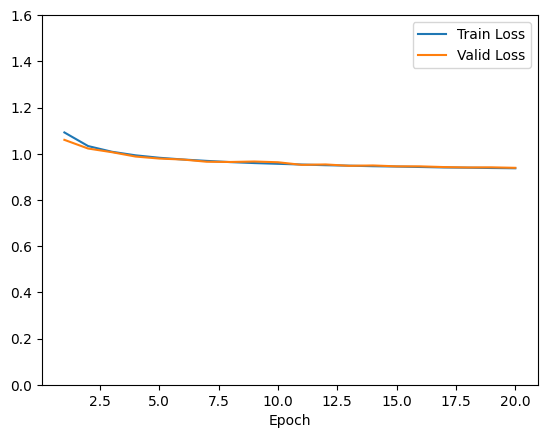
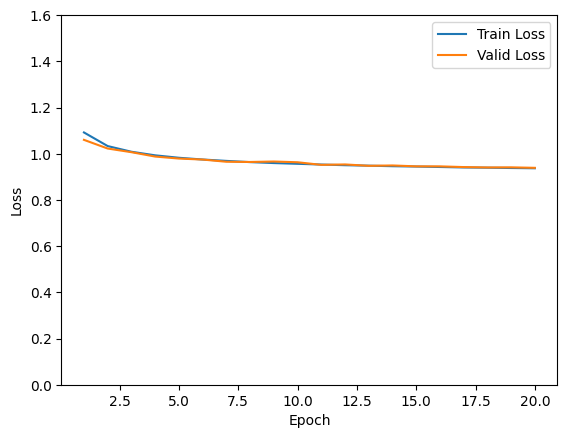
fix: Q2_1 plots

diff --git a/hw1/hw1-q2.py b/hw1/hw1-q2.py
@@ -144,7 +144,7 @@ def evaluate(model, X, y, criterion):
     return loss, n_correct / n_possible
 
 
-def plot(epochs, plottables, name='', ylim=None):
+def plot(epochs, plottables, name='', y_label = '', ylim=None):
     """Plot the plottables over the epochs.
     
     Plottables is a dictionary mapping labels to lists of values.
@@ -156,6 +156,7 @@ def plot(epochs, plottables, name='', ylim=None):
     plt.legend()
     if ylim:
         plt.ylim(ylim)
+    plt.ylabel(y_label)
     plt.savefig(f"{IMAGE_PATH}/{IMAGE_NAME}_{name}.png", bbox_inches = 'tight')
 
 
@@ -276,9 +277,9 @@ def main():
         ylim = (0., 1.2)
     else:
         raise ValueError(f"Unknown model {opt.model}")
-    plot(epochs, losses, name=f'training_loss_{config}', ylim=ylim)
+    plot(epochs, losses, name=f'training_loss_{config}', y_label = "Loss", ylim=ylim)
     accuracy = { "Valid Accuracy": valid_accs }
-    plot(epochs, accuracy, name=f'validation_accuracy_{config}', ylim=(0., 1.))
+    plot(epochs, accuracy, name=f'validation_accuracy_{config}', y_label = "Accuracy", ylim=(0., 1.))
 
 
 if __name__ == '__main__':
